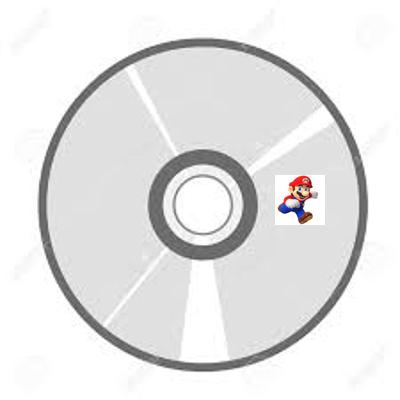
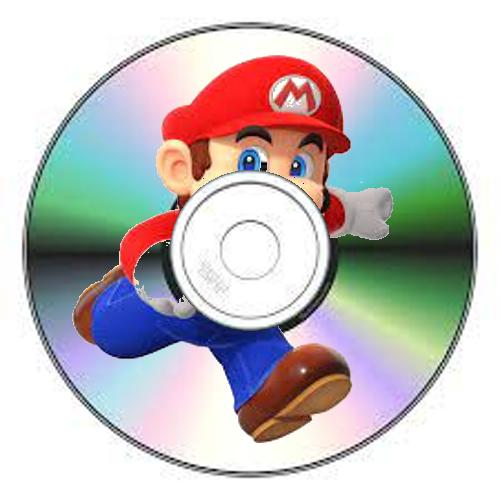
240430-2218-radius 적용

diff --git a/streamlit_app.py b/streamlit_app.py
@@ -1,6 +1,6 @@
 import streamlit as st
 st.set_page_config(layout="wide")
-from PIL import Image
+from PIL import Image, ImageDraw
 import os
 import numpy as np
 import math
@@ -68,17 +68,43 @@ def rotate_image(image, angle):
     
     return rotated_image
 
-def merge_images(background_image, patch_image, position, is_transparent=True):   
+# def merge_images(background_image, patch_image, position, is_transparent=True):   
+#     p_w, p_h = patch_image.size
+#     c_w, c_h = (int(p_w/2), int(p_h/2))
+#     new_position = (position[0]-c_w, position[1]-c_h)
+#     merged_image = background_image.copy()
+#     if is_transparent:
+#         patch_image = remove_background(patch_image)
+#         merged_image.paste(patch_image, new_position, patch_image)
+#     else:
+#         merged_image.paste(patch_image, new_position)
+
+#     return merged_image
+
+def merge_images(background_image, patch_image, position, radius, is_transparent=True):
     p_w, p_h = patch_image.size
-    c_w, c_h = (int(p_w/2), int(p_h/2))
-    new_position = (position[0]-c_w, position[1]-c_h)
+    #radius = 60
+    c_x, c_y = p_w//2, p_h//2  #position[0], position[1]
+    c_w, c_h = min(radius, p_w // 2), min(radius, p_h // 2)
+    
+    # 이미지를 원의 크기에 맞게 자르기
+    mask = Image.new('L', patch_image.size, 255)
+    draw = ImageDraw.Draw(mask)
+    draw.ellipse((c_x - c_w, c_y - c_h, c_x + c_w, c_y + c_h), fill=0)
+    print("-"*100)
+    print(f"{c_x - c_w, c_y - c_h, c_x + c_w, c_y + c_h}")
+    patch_image.putalpha(mask)
+
     merged_image = background_image.copy()
+
     if is_transparent:
         patch_image = remove_background(patch_image)
-        merged_image.paste(patch_image, new_position, patch_image)
-    else:
-        merged_image.paste(patch_image, new_position)
-
+    
+    # 원의 중심을 기준으로 merge
+    p_w, p_h = patch_image.size
+    new_position = (position[0] - p_w // 2, position[1] - p_h // 2)
+    merged_image.paste(patch_image, new_position, patch_image)
+    
     return merged_image
 
 
@@ -140,12 +166,14 @@ def main():
         st.markdown("**붙일 위치**")
         patch_x = st.text_input("X 위치", value=center_x)
         patch_y = st.text_input("Y 위치", value=center_y)
+        radius = st.text_input("원의 반지름", value=50)
         is_transparent = st.checkbox("투명하게 붙이기", value=True)
         patch_button = st.button("MERGE")
         if patch_button:
             merged_image = merge_images(st.session_state["resized_bg_img"], 
                                         st.session_state["resized_patch_img"], 
                                         (int(patch_x), int(patch_y)), 
+                                        int(radius),
                                         is_transparent=is_transparent)
             st.session_state["merged_image"] = merged_image
         if "merged_image" in st.session_state:
